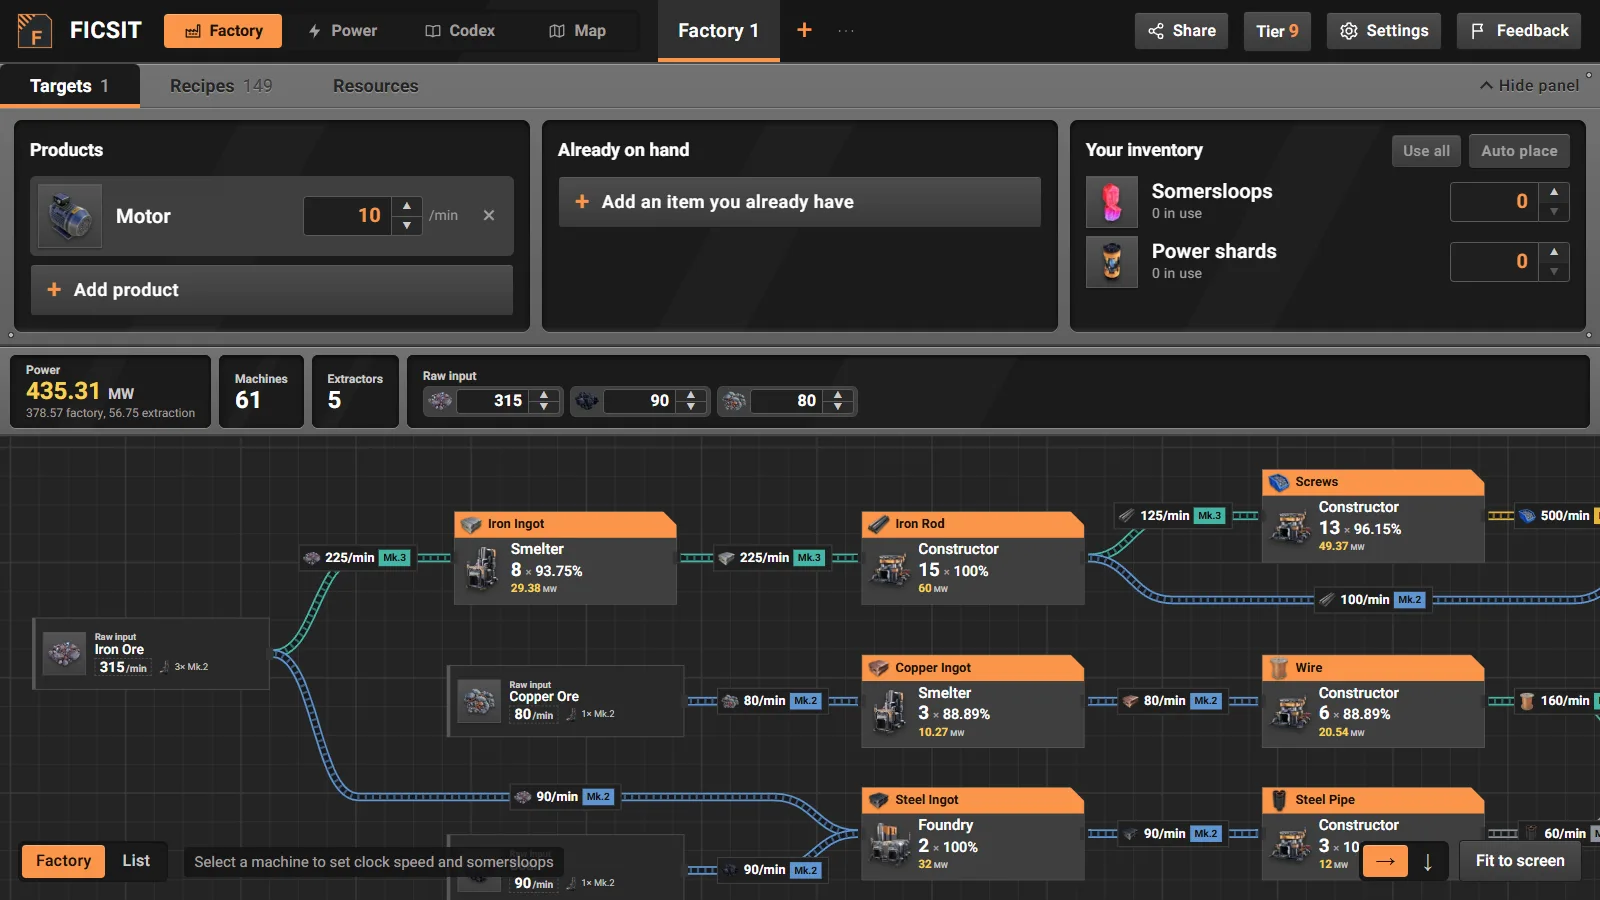
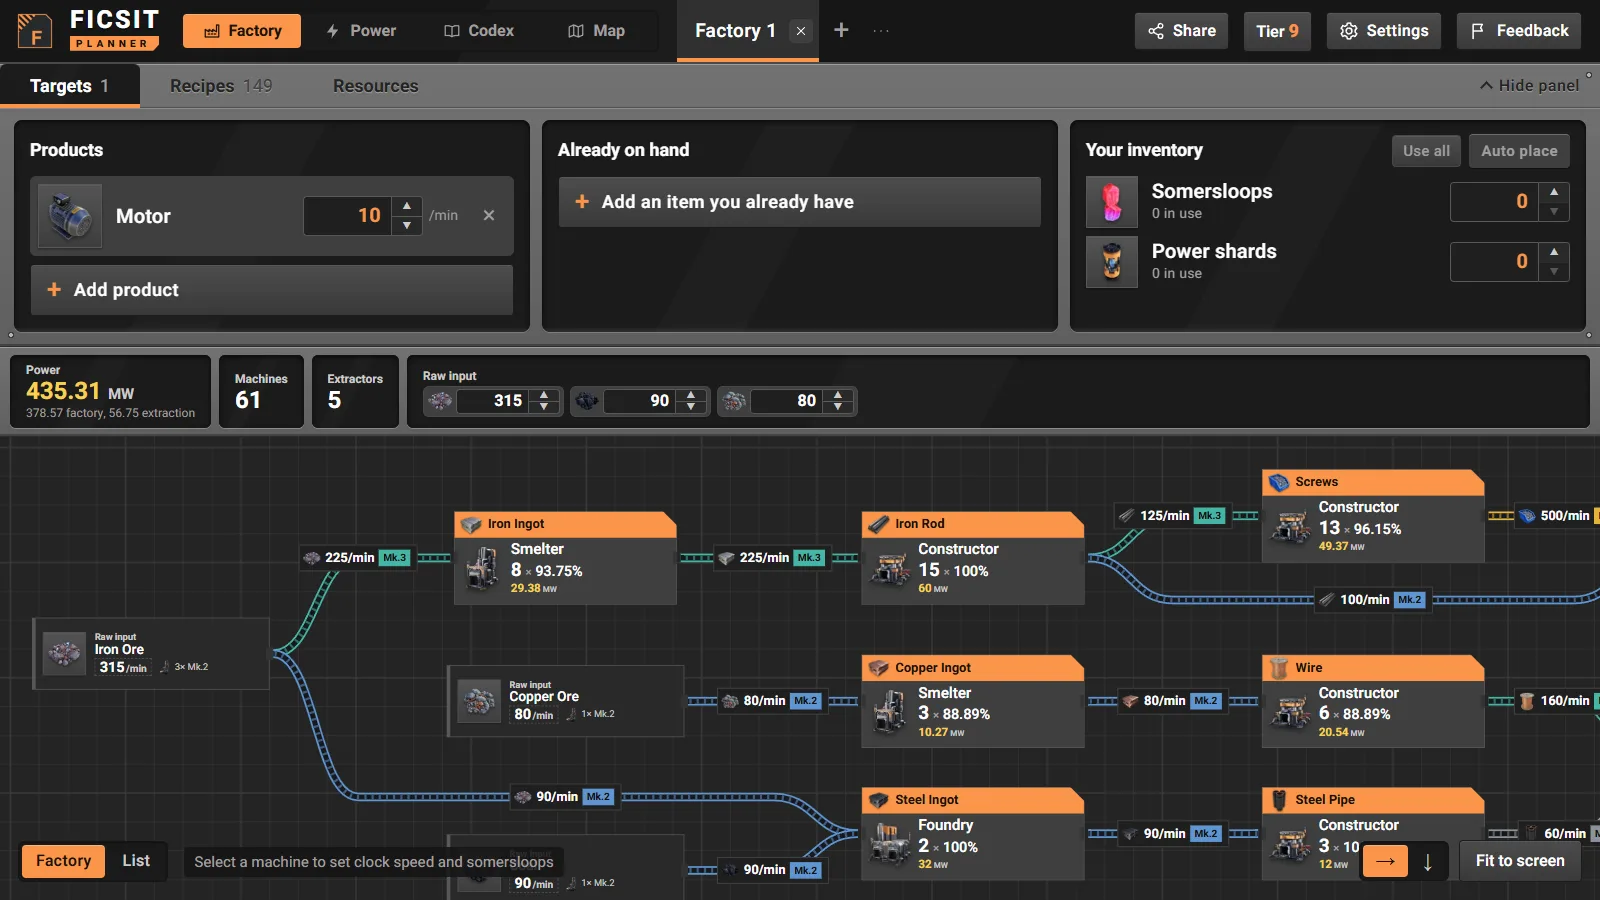
A FICSIT / PLANNER wordmark in the top bar, coloured by the planner on screen, and the tab row's room back on phones (0.11.3)

Changed region(s): [[0.0312, 0.0, 0.25, 0.0622], [0.3438, 0.0, 0.5312, 0.0622], [0.2812, 0.0311, 0.3125, 0.0622]]

diff --git a/src/styles.css b/src/styles.css
@@ -7609,6 +7609,64 @@ a.codex-machine:hover {
   color: var(--paper);
 }
 
+/*
+  The wordmark: FICSIT in heavy capitals the way the game letters its company, and PLANNER spaced out on a plate
+  with one corner cut like the game's labels, in the colour of the planner on screen. Set in Heebo whatever
+  typeface Settings picks, so the name always looks the same.
+*/
+.brand-name {
+  display: flex;
+  flex-direction: column;
+  align-items: flex-start;
+  gap: 4px;
+  font-family: 'Heebo', sans-serif;
+}
+
+.brand-word {
+  font-size: 25px;
+  font-weight: 800;
+  line-height: 0.82;
+  letter-spacing: 0.1em;
+  color: var(--paper);
+  text-shadow: 0 2px 0 rgb(0 0 0 / 0.45);
+}
+
+.brand-sub {
+  padding: 2px 9px 1px 6px;
+  font-size: 10px;
+  font-weight: 800;
+  line-height: 1.2;
+  letter-spacing: 0.42em;
+  text-transform: uppercase;
+  color: var(--mode-ink, #1d1206);
+  background: var(--mode, var(--ficsit));
+  clip-path: polygon(0 0, 100% 0, 100% 55%, calc(100% - 6px) 100%, 0 100%);
+}
+
+/*
+  Phones keep the top bar for the tabs: the logo alone stands for the name, and the tab row is swiped rather than
+  stepped with arrows, so the room goes to the tab names. Closing a tab is in the ⋯ menu there.
+*/
+@media (max-width: 900px) {
+  .brand-name,
+  .tabs-nudge,
+  .plan-tab-close {
+    display: none;
+  }
+
+  .plan-tab {
+    padding-right: 10px;
+  }
+
+  .plan-tabs-frame {
+    flex: 1 1 auto;
+  }
+
+  .plan-add {
+    width: 34px;
+  }
+}
+
 .topbar {
   background: var(--bg);
   border-bottom-color: #151515;

diff --git a/src/App.tsx b/src/App.tsx
@@ -182,7 +182,7 @@ export default function App() {
         <div className="brand">
           <span className="brand-mark" aria-hidden />
           <h1 className="brand-name">
-            FICSIT<span className="sr-only"> Planner</span>
+            <span className="brand-word">FICSIT</span> <span className="brand-sub">Planner</span>
           </h1>
         </div>
         <ModeSwitch />

diff --git a/src/fonts.ts b/src/fonts.ts
@@ -4,6 +4,7 @@ import '@fontsource/heebo/latin-400.css';
 import '@fontsource/heebo/latin-500.css';
 import '@fontsource/heebo/latin-600.css';
 import '@fontsource/heebo/latin-700.css';
+import '@fontsource/heebo/latin-800.css';
 import '@fontsource/heebo/latin-ext-400.css';
 import '@fontsource/heebo/latin-ext-500.css';
 import '@fontsource/heebo/latin-ext-600.css';

diff --git a/CHANGELOG.md b/CHANGELOG.md
@@ -2,6 +2,19 @@
 
 All notable changes to FICSIT Planner. Dates are when the version was finished.
 
+## 0.11.3 — 2026-09-27
+
+### Changed
+
+- **A wordmark in the top-left corner:** FICSIT in heavy capitals over a PLANNER plate with one corner cut, the way
+  the game letters its labels. The plate takes the colour of the planner on screen: orange, yellow, cyan or green.
+  The link preview picture and the README screenshots show it.
+
+### Fixed
+
+- **Phones:** the tab row got its room back. The arrow buttons and the tab × stay on larger screens; on a phone the
+  row is swiped and a tab is closed from the ⋯ menu.
+
 ## 0.11.2 — 2026-09-27
 
 ### Changed
